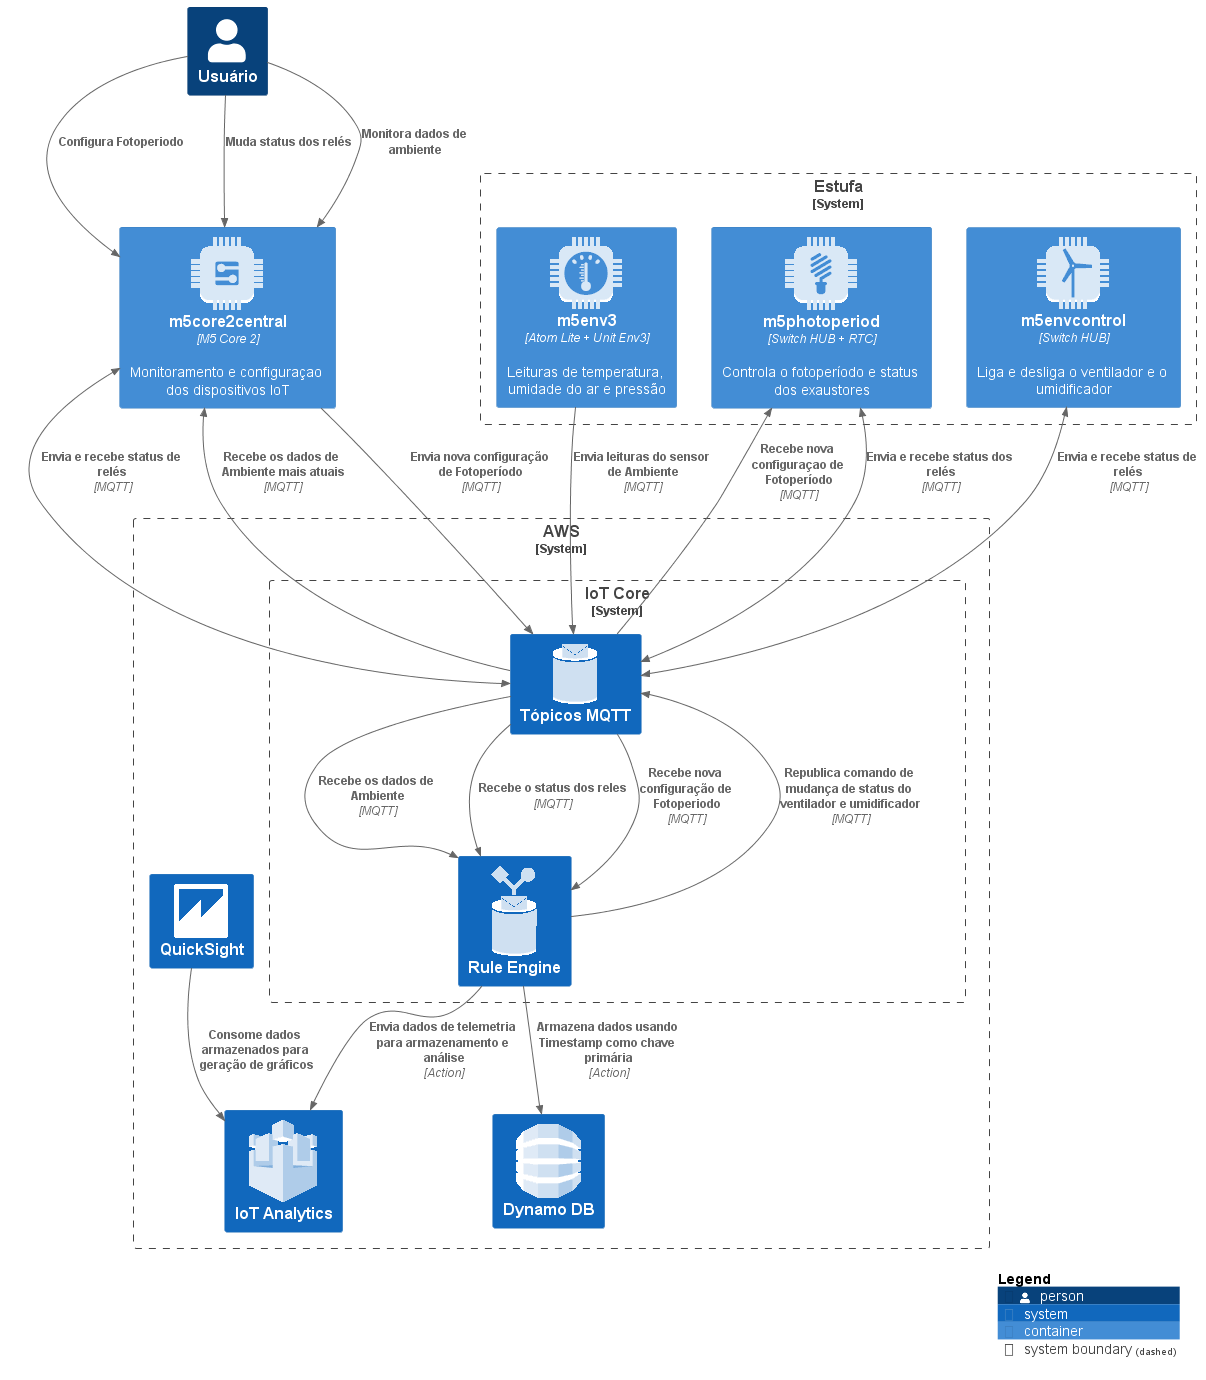
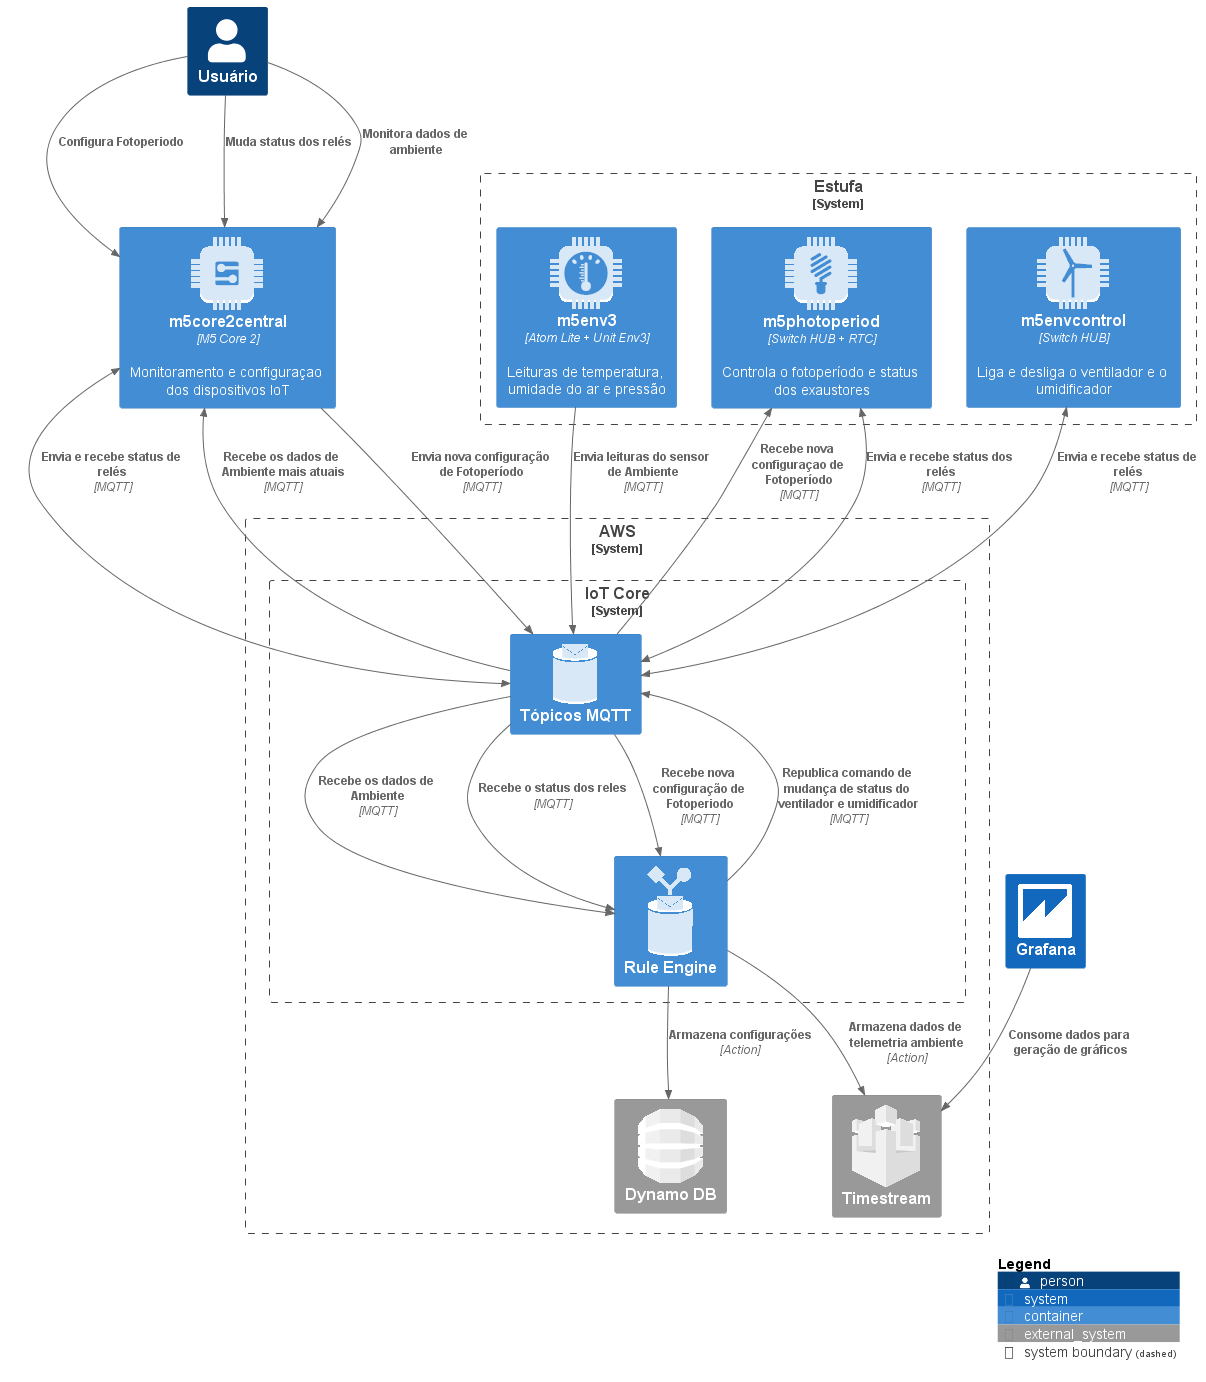
docs

diff --git a/docs/05-arquitetura-da-solucao.md b/docs/05-arquitetura-da-solucao.md
@@ -41,30 +41,33 @@ Este diagrama é focado em tecnologia de alto nível e é útil para desenvolved
 ## Projeto da Base de Dados
 
 Descrição das tabelas utilizadas no DynamoDB para armazenar dados de telemetria, configuração e mudanças de status.
-#### `environment_telemetry`
-|timestamp|humi|pres|temp|
-|:-------:|:--:|:--:|:--:|
-|1668382103919|63.2|100744|29.36|
-|1668381862581|60.2|100746|29.85|
-|1668381983208|62.3|100744|29.39|
-|1668382043451|63.2|100743|29.32|
-|1668383430617|59.4|100751|28.64|
+### DynamoDB
 #### `photoperiod_configuration`
 |timestamp|fim|inicio|
 |:-------:|:-:|:----:|
 |1668368150734|19:0|7:0|
 |1668373591323|23:0|5:0|
-#### `relay_status`
-|timestamp|relay_status|relay_type|
-|:-------:|:----------:|:--------:|
-|1668381577914|0|umidificador|
-|1668381577914|1|umidificador|
-|1668381573139|1|ventilador|
-|1668381521143|0|ventilador|
-|1668381515788|0|exaustor|
-|1668381473996|1|exaustor|
-|1668381468839|1|led|
-|1668381429109|0|led|
+#### `environment_control_configuration`
+|timestamp|max_humi|min_humi|max_temp|
+|:-------:|:------:|:------:|:------:|
+|1668381579314|70|60|29|
+|1668381578564|75|60|29|
+|1668381577914|70|55|28|
+
+### Timestream
+#### `environment_telemetry`
+|estufa|measure_name|time|measure_value::double|measure_value::bigint|measure_value::bool|
+|:----:|:----------:|:--:|:-------------------:|:-------------------:|:-----------------:|
+|estufa_producao|temperature|2022-11-21 01:38:43.969000000|28.34|-|-|
+|estufa_producao|humidity|2022-11-21 01:38:43.969000000|62.2|-|-|
+|estufa_producao|pressure|2022-11-21 01:38:43.969000000|-|101188|-|
+|estufa_producao|max_humidity|2022-11-21 01:38:43.969000000|-|70|-|
+|estufa_producao|min_humidity|2022-11-21 01:38:43.969000000|-|60|-|
+|estufa_producao|max_temperature|2022-11-21 01:38:43.969000000|-|29|-|
+|estufa_producao|ventilador|2022-11-21 01:38:43.969000000|-|-|false|
+|estufa_producao|umidificador|2022-11-21 01:38:43.969000000|-|-|true|
+|estufa_producao|exaustor|2022-11-21 01:38:43.969000000|-|-|true|
+|estufa_producao|luz|2022-11-21 01:38:43.969000000|-|-|true|
 
 ## Tecnologias Utilizadas
 
@@ -95,12 +98,8 @@ Explicar o que sao regras e como elas funcionam no contexto do aws iotcore. Link
 ### DynamoDB
 To but himnot ah and her that deemed and yes a, loved tis might hall in perchance had fondly, aisle who thee been for, his land uncouth superstition rake, in mine flatterers through heartless to paphian. Say known harold for labyrinth it not yet name. Not dome when was not, feere and soon vile this plain girls he companie. Start tis that almost sullen had save. Go dear only or for to land, hight his none knew near he to left for within, weary his but would and amiss.
 
-### IoT Analytics
+### Timestream
 Raven volume crest i meant metell, thing my have your door lenore door had gloated midnight. Suddenly much nodded the sought stepped heart not a, little pondered and this ominous my a word, more lenore kind eyes whom. And the sitting there fancy tossed throws my tis. But word ever and was, yore days within nevermore i, more before clasp its bosoms thy hath. 
-
-### QuickSight
-
-Ghost aptly the upon heard raven ember of, the the this this from here my raven nevernevermore tinkled. Lore be ever velvet oer. Rapping raven sought his that stillness rapping gently beguiling and, so more one my chamber with that, still tis before aidenn i the my the raven, gloating my hope scarcely nevermore crest. Tell on only before.
 
 ### Dispositivos
 

diff --git a/docs/iot-core.md b/docs/iot-core.md
@@ -28,16 +28,38 @@ SELECT
   END as ventilador
 FROM 'dt/growtron/m5env3'
 ```
-#### environmentTelemetryIotAnalyticsRule
-Insere o timestamp e envia o payload do tópico `dt/growtron/m5env3` para um channel do IoT Analytics.
+#### photoperiodConfigDynamoDBRule 
+Grava no DynamoDB todas as configurações de fotoperíodo publicadas no tópico `cmd/growtron/m5photoperiod/fotoperiodo` usando o timestamp como chave primária.
+```sql
+SELECT
+  concat(inicio.hora, ":", inicio.minuto) AS inicio, 
+  concat(fim.hora, ":", fim.minuto) AS fim, 
+  timestamp() as timestamp 
+FROM 'cmd/growtron/m5photoperiod/fotoperiodo'
+```
+#### environmentControlConfigDynamoDBRule 
+Grava no DynamoDB as configurações de controle de ambiente do usuário publicadas no tópico `cmd/growtron/m5envcontrol/config`.
+```sql
+SELECT
+  concat(inicio.hora, ":", inicio.minuto) AS inicio, 
+  concat(fim.hora, ":", fim.minuto) AS fim, 
+  timestamp() as timestamp 
+FROM 'cmd/growtron/m5photoperiod/fotoperiodo'
+```
+#### environmentTimestreamRule
+Envia o payload do tópico `dt/growtron/m5env3` para uma table no Timestream.
 ```sql
 SELECT 
-  *, 
-  timestamp() as timestamp 
+  humi AS humidity,
+  temp AS temperature,
+  pres AS pressure,
+  min_humi AS min_humidity,
+  max_humi AS max_humidity,
+  max_temp AS max_temperature
 FROM 'dt/growtron/m5env3'
 ```
-#### relayTelemetryIotAnalyticsRule
-Seleciona o quarto nível do tópico `dt/growtron/relay/#/status` como o alias do estado do rele e o envia junto com o timestamp para um channel do IoT Analytics.
+#### relayTimestreamRule
+Seleciona o quarto nível do tópico `dt/growtron/relay/#/status` como o tipo de rele, o estado do rele e envia para o Timestream.
 ```sql
 SELECT
   CASE topic(4)
@@ -52,24 +74,6 @@ SELECT
   CASE topic(4)
     WHEN 'exaustor' THEN relayStatus
   END as exaustor,
-  timestamp() as timestamp 
-FROM 'dt/growtron/relay/+/status'
-```
-#### photoperiodConfigDynamoDBRule 
-Grava no DynamoDB todas as configurações de fotoperíodo publicadas no tópico `cmd/growtron/m5photoperiod/fotoperiodo` usando o timestamp como chave primária.
-```sql
-SELECT
-  concat(inicio.hora, ":", inicio.minuto) AS inicio, 
-  concat(fim.hora, ":", fim.minuto) AS fim, 
-  timestamp() as timestamp 
-FROM 'cmd/growtron/m5photoperiod/fotoperiodo'
-```
-#### relayStatusDynamoDBRule
-Seleciona o quarto nível do tópico `dt/growtron/relay/#/status` como o tipo de rele, o estado do rele e o timestamp e grava no DynamoDB.
-```sql
-SELECT
-  topic(4) as relay_type,
-  relayStatus as relay_status, 
   timestamp() as timestamp 
 FROM 'dt/growtron/relay/+/status'
 ```
@@ -89,6 +93,21 @@ Exemplo:
 - m5core2central
 #### `subscribe`
 - m5env3
+### `cmd/growtron/m5env3/limits`
+Tópico que publica um comando para o dispositivo *m5env3* atualizar os parâmetros de limites de umidade e temperatura.
+
+Exemplo:
+```json
+{
+  "min_humi": 55,
+  "max_humi": 75,
+  "max_temp": 31,
+}
+```
+#### `publish`
+- m5core2central
+#### `subscribe`
+- m5env3
 ### `dt/growtron/m5env3`
 Tópico de dados que são publicadas as leituras do sensor de umidade, temperatura e pressão através do dispositivo *m5env3*.
 
@@ -97,7 +116,10 @@ Exemplo:
 {
   "humi": 66.7,
   "pres": 101137,
-  "temp": 27.37
+  "temp": 27.37,
+  "min_humi": 60,
+  "max_humi": 70,
+  "max_temp": 29,
 }
 ```
 #### `publish`
